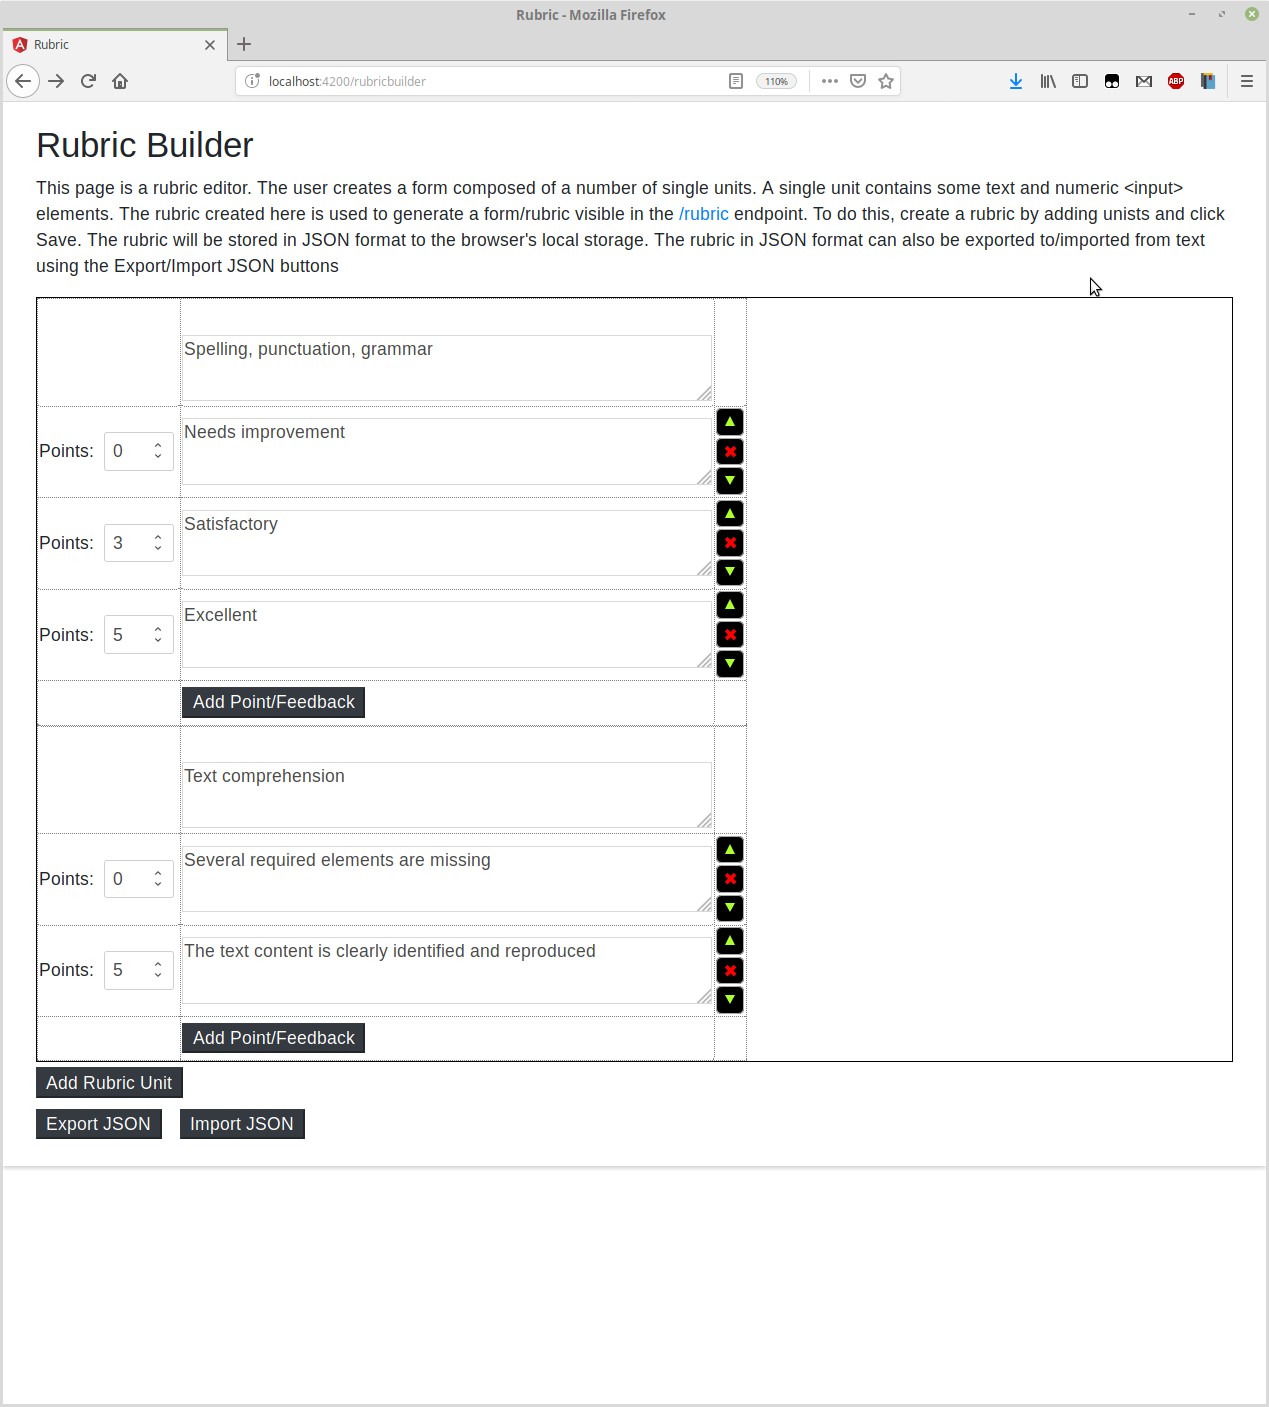
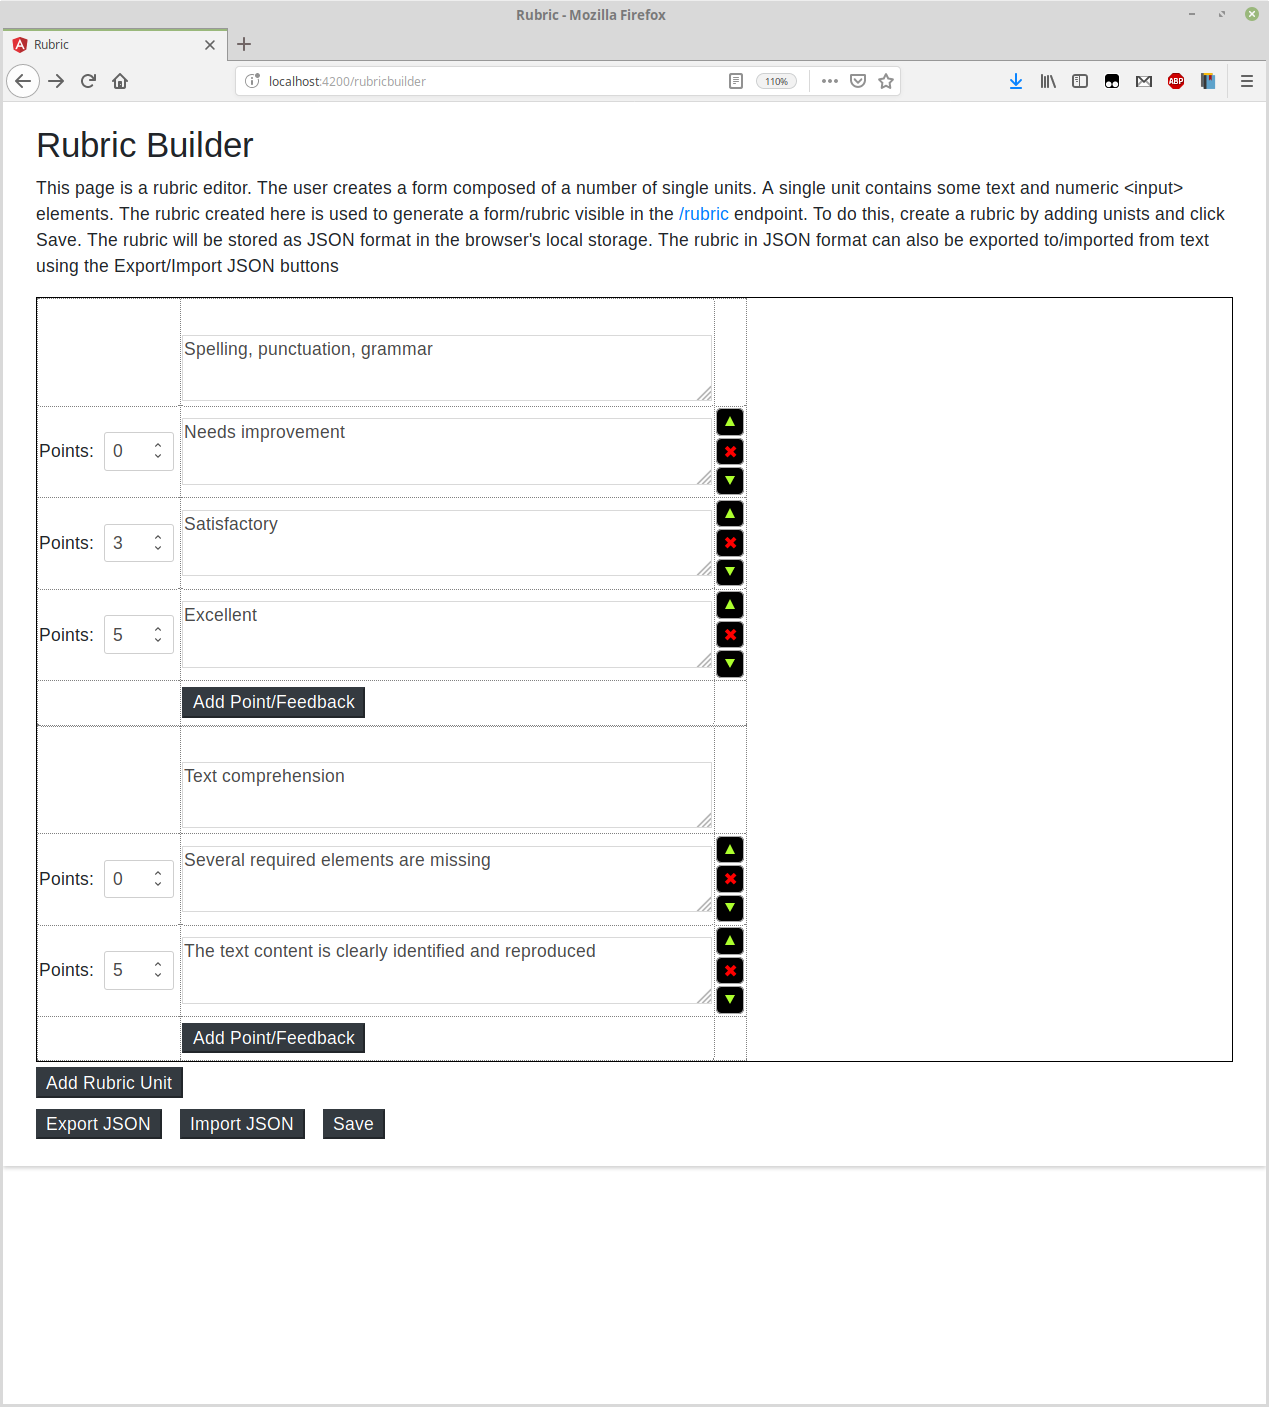
implemented saving to and importing from localstorage README

Changed region(s): [[0.2151, 0.1528, 0.9527, 0.1834], [0.2459, 0.764, 0.3073, 0.8252]]

diff --git a/src/app/rubric/rubric.component.ts b/src/app/rubric/rubric.component.ts
@@ -19,8 +19,6 @@ export class RubricComponent implements OnInit {
     private submitRubricService: SubmitRubricService
   ) {}
 
-  title = "Angular Forms from json";
-  jsonfile: string = "formspec";
   json = [];
   keys = [];
   values = [];
@@ -39,26 +37,42 @@ export class RubricComponent implements OnInit {
   ngOnInit() {
     /// Read the json file, populate the form group
     // The json file is given by its name. Its path is the /assets folder
+    var jsonfile: string;
     if (typeof this.route.snapshot.params.json !== 'undefined') {
-      this.jsonfile = this.route.snapshot.params.json;
+      jsonfile = this.route.snapshot.params.json;
+    } else {
+      //Use a demo json file in /assets
+      jsonfile = "formspec";
     }
-    if (!this.jsonfile.endsWith(".json")) {
-      this.jsonfile += '.json';
+    if (!jsonfile.endsWith(".json")) {
+      jsonfile += '.json';
     }
     // Read the json, populate variables
-    let path = "../../assets/";
-    this.readjson.getJSON(path + this.jsonfile).subscribe(data => {
-      this.json = data;
-      this.json.forEach((value, i) => {
-        this.keys[i] = value["name"];
-        this.values[i] = value["radio"][0].score;
+    var localrubric = localStorage.getItem('rubric');
+    if (localrubric !== null) {
+      console.log("JSON rubric from localStorage: ");
+      this.populateVarsAndForm(JSON.parse(localrubric))
+    } else {
+      let path = "../../assets/";
+      this.readjson.getJSON(path + jsonfile).subscribe(data => {
+        console.log("JSON rubric from "+path+jsonfile+" : ");
+        this.populateVarsAndForm(data)
       });
-      let group = {};
-      this.keys.forEach((key, i) => {
-        group[key] = this.values[i];
-      });
-      this.rubricForm = this.createForm(group);
+    }
+  }
+
+  populateVarsAndForm(json){
+    this.json = json;
+    console.log(this.json)
+    this.json.forEach((value, i) => {
+      this.keys[i] = value["name"];
+      this.values[i] = value["radio"][0].score;
     });
+    let group = {};
+    this.keys.forEach((key, i) => {
+      group[key] = this.values[i];
+    });
+    this.rubricForm = this.createForm(group);
   }
 
   onSubmit() {

diff --git a/src/app/rubricbuilder/rubricbuilder.component.html b/src/app/rubricbuilder/rubricbuilder.component.html
@@ -6,7 +6,7 @@
     The rubric created here is used to generate a form/rubric visible in the
     <a href='/rubric'>/rubric</a> endpoint.
 
-    To do this, create a rubric by adding unists and click Save. The rubric will be stored in JSON format to the browser's local storage. The rubric in JSON format can also be exported to/imported from text using the Export/Import JSON buttons
+    To do this, create a rubric by adding unists and click Save. The rubric will be stored as JSON format in the browser's local storage. The rubric in JSON format can also be exported to/imported from text using the Export/Import JSON buttons
   </p>
 
   <table style="width:100%">
@@ -57,11 +57,12 @@
     <tbody>
   </table>
   <button class="btn-dark" id="addrubricunit" (click)="clickAppendRubricUnit()">Add Rubric Unit</button>
-  <button class="btn-dark" (click)="test()" style="margin-left:1em;">test</button>
+  <!--<button class="btn-dark" (click)="test()" style="margin-left:1em;">test</button>-->
   <br>
   <div *ngIf="!showImportArea">
     <button class="btn-dark" (click)="exportJSON()" id="exportButton">Export JSON</button>
     <button class="btn-dark" (click)="showImportArea=!showImportArea" style="margin-left:1em;">Import JSON</button>
+    <button class="btn-dark" (click)="save()" style="margin-left:1em;">Save</button>
     <a id="download" download="rubric.json" hidden></a>
   </div>
   <div *ngIf="showImportArea">

diff --git a/src/app/rubric/rubric.component.html b/src/app/rubric/rubric.component.html
@@ -1,5 +1,9 @@
 <div class="app">
-  <h2> {{title}} </h2>
+  <h2>Rubric</h2>
+  <p>
+    This page is a rubric populated from the JSON file saved to localStorage in the rubric editor. Refer to the rubric editor here: <a href='/rubricbuilder'>/rubricbuilder</a>. 
+    The submit button in this page should be configured. It currently calls the postJSON method in the service, which runs a POST request to the /submitJSON endpoint.
+  </p>
   <div *ngIf="json">      
     <form [formGroup]="rubricForm" (ngSubmit)="onSubmit()">
       <div *ngFor="let elem of json; index as i">

diff --git a/src/app/rubricbuilder/rubricbuilder.component.ts b/src/app/rubricbuilder/rubricbuilder.component.ts
@@ -101,6 +101,10 @@ export class RubricbuilderComponent implements OnInit {
     this.showImportArea = false;
   }
 
+  save() {
+    localStorage.setItem('rubric', JSON.stringify(this.rubrics));
+  }
+
   test(){
     console.log(this.rubrics)
   }

diff --git a/README.md b/README.md
@@ -1,33 +1,29 @@
 # JSON2ngForm
 
-Work in progress
-
 ## Project description
 My aim was to create a website with a rubric, i.e. a form with checkboxes (actually radio buttons) and text. The main structure for each textbox should be the same. 
 
 For example the following rubric has two "components" (by component I just mean two repeated elements, not Angular components). Each component consists in a line of text (a criterion by which to judge some assignment), and a variable number of radio buttons with associated number of points and feedback text: 
 
-&nbsp;&nbsp;&nbsp;**Criterion: Spelling, punctuation, grammar**
-&nbsp;&nbsp;&nbsp;- [ ] 0 points  
-&nbsp;&nbsp;&nbsp;&nbsp;&nbsp;&nbsp;&nbsp; Feedback: Needs improvement!
-&nbsp;&nbsp;&nbsp;- [x] 3 points  
-&nbsp;&nbsp;&nbsp;&nbsp;&nbsp;&nbsp;&nbsp;Feedback: Satisfactory
-&nbsp;&nbsp;&nbsp;- [ ] 5 points  
-&nbsp;&nbsp;&nbsp;&nbsp;&nbsp;&nbsp;&nbsp;Feedback: Excellent
+&nbsp;&nbsp;&nbsp;&nbsp;&nbsp;&nbsp;**Criterion: Spelling, punctuation, grammar**
+&nbsp;&nbsp;&nbsp;&nbsp;&nbsp;&nbsp;- [ ] 0 points  
+&nbsp;&nbsp;&nbsp;&nbsp;&nbsp;&nbsp;&nbsp;&nbsp;&nbsp;&nbsp; Feedback: Needs improvement!
+&nbsp;&nbsp;&nbsp;&nbsp;&nbsp;&nbsp;- [x] 3 points  
+&nbsp;&nbsp;&nbsp;&nbsp;&nbsp;&nbsp;&nbsp;&nbsp;&nbsp;&nbsp;Feedback: Satisfactory
+&nbsp;&nbsp;&nbsp;&nbsp;&nbsp;&nbsp;- [ ] 5 points  
+&nbsp;&nbsp;&nbsp;&nbsp;&nbsp;&nbsp;&nbsp;&nbsp;&nbsp;&nbsp;Feedback: Excellent
 
-&nbsp;&nbsp;&nbsp;**Criterion: Text comprehension**
-&nbsp;&nbsp;&nbsp;- [ ] 0 points  
-&nbsp;&nbsp;&nbsp;&nbsp;&nbsp;&nbsp;&nbsp; Feedback: Several required elements are missing
-&nbsp;&nbsp;&nbsp;- [x] 5 points   
-&nbsp;&nbsp;&nbsp;&nbsp;&nbsp;&nbsp;&nbsp; Feedback: The text content is clearly identified and reproduced
+&nbsp;&nbsp;&nbsp;&nbsp;&nbsp;&nbsp;**Criterion: Text comprehension**
+&nbsp;&nbsp;&nbsp;&nbsp;&nbsp;&nbsp;- [ ] 0 points  
+&nbsp;&nbsp;&nbsp;&nbsp;&nbsp;&nbsp;&nbsp;&nbsp;&nbsp;&nbsp; Feedback: Several required elements are missing
+&nbsp;&nbsp;&nbsp;&nbsp;&nbsp;&nbsp;- [x] 5 points   
+&nbsp;&nbsp;&nbsp;&nbsp;&nbsp;&nbsp;&nbsp;&nbsp;&nbsp;&nbsp; Feedback: The text content is clearly identified and reproduced
 
 I wanted to make this process dynamic. In particular I needed two webpages: 
-1. A page allowing users to generate a rubric with any number of components. The user should add each component (criterion, checkboxes with associated points and feedback) and type in text, number points, feedback. The specifications for the resulting rubric should be importable/exportable as json;
-2. A page showing the rubric as a form from a json specification as the one in the previous point:
+1. A page allowing users to generate a rubric with any number of components. The user should add each component (criterion, checkboxes with associated points and feedback) and type in text, number points, feedback. The specifications for the resulting rubric can be imported/exported as json and saved. Saving is done in the browser's local storage, but in a real implementation I suggest using a database;
+2. A page showing the rubric as a form from a json specification as the one in the previous point. If the json from point 1 is not present in localStorage, the page can read a local .json file in the /asset folder, whose name can be passed as an argument to the /rubric endpoint.
 
-
-## Progress:
-Point 1 and 2 above are implemented and work. Check them at the [/rubric/formspec.json](http://localhost:4200/rubric/formspec.json) and [/rubricbuilder](http://localhost:4200/rubricbuilder.json) endpoints
+Point 1 and 2 are available at the [/rubric/formspec.json](http://localhost:4200/rubric/formspec.json) and [/rubricbuilder](http://localhost:4200/rubricbuilder.json) endpoints, respectively. 
 
 Instead of reading from a local json file for the feature in point 2 (/rubric/formspec.json), I am going to store the json from point 1 in LocalStorage and use that one. In reality one could store the json in a database. 
 
